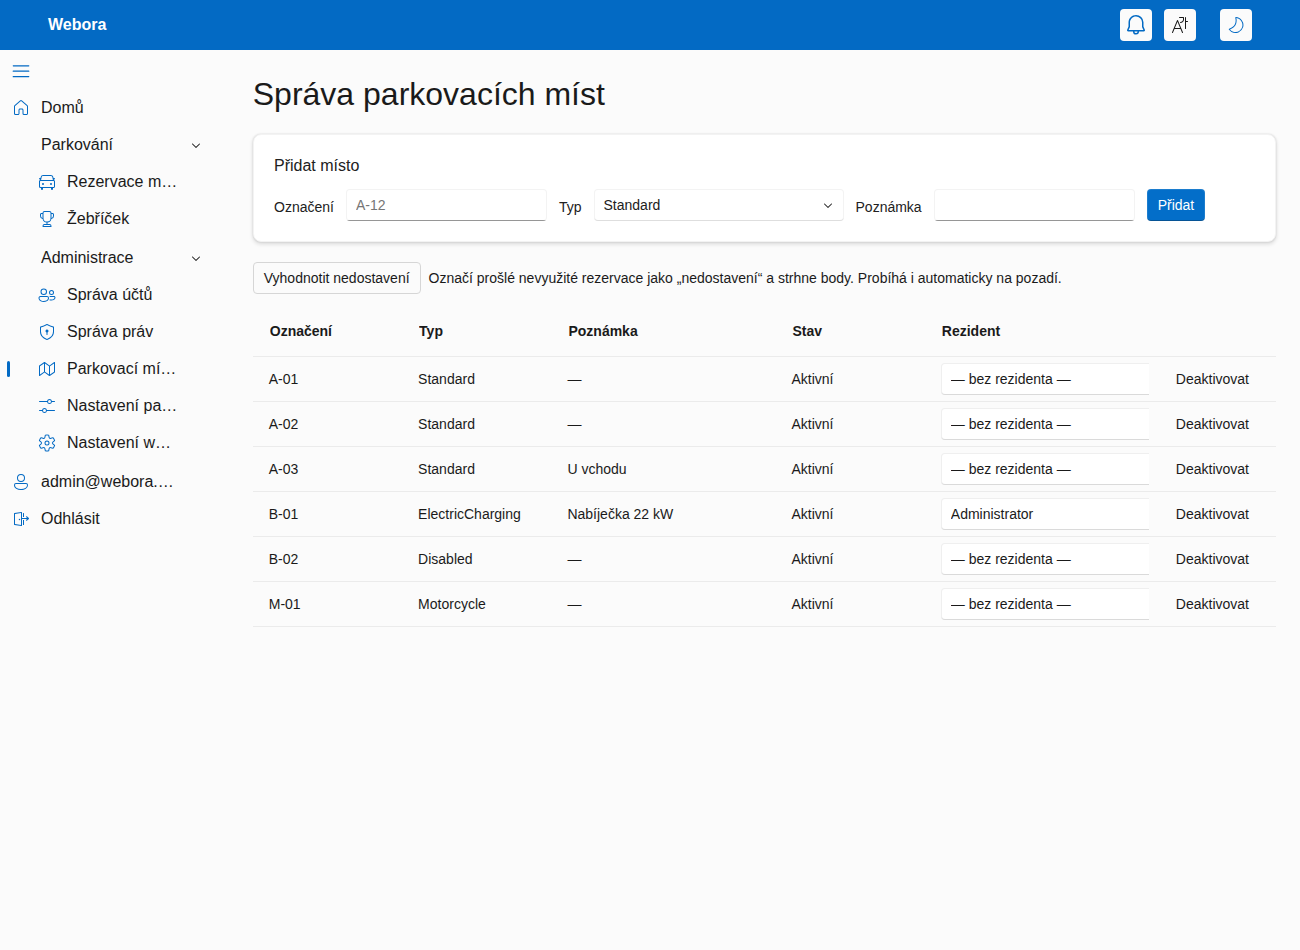
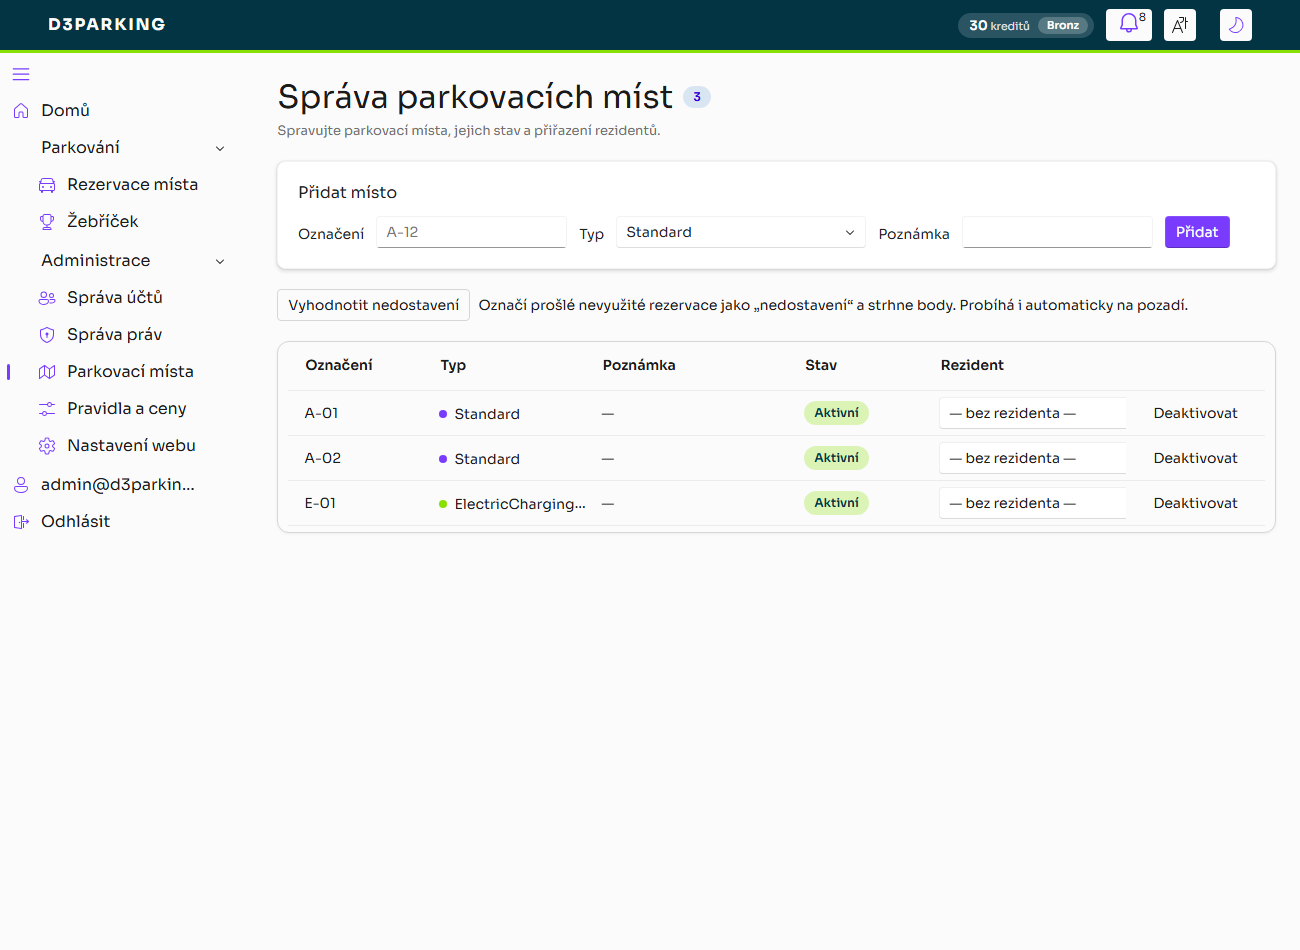
Re-record README screenshots for the D3Parking brand
The three GIFs and three stills still showed the old Webora branding and name.
Re-captured against the running app with Playwright: the registration flow, the
sign-in and usage walkthrough (wallet, live price quote, leaderboard) and the
admin tour (accounts, roles, spots, the rules tabs, site settings, collusion
review). Dimensions match the originals so the README layout is unchanged.

Frames are held long enough to read rather than recorded as video, which cut the
media from 17.5 MB to 1.2 MB.

Also notes the visual identity in the Náhledy section, since the palette and
typeface are now part of what the screenshots show.

diff --git a/README.md b/README.md
@@ -66,6 +66,10 @@ vyhrazeného místa) a penalizují nedostavení se.
 
 ## Náhledy
 
+Vizuální styl vychází ze značkového manuálu: plochy v Sherpa Blue, fialová jako akcent interaktivních
+prvků, zelená jako výplň zvýraznění a písmo Sora. Rozhraní je v češtině i angličtině a má světlý
+i tmavý režim.
+
 **Registrace** — vytvoření účtu na split-screen obrazovce a potvrzení o aktivačním e-mailu:
 
 ![Registrace](docs/screenshots/registration.gif)
